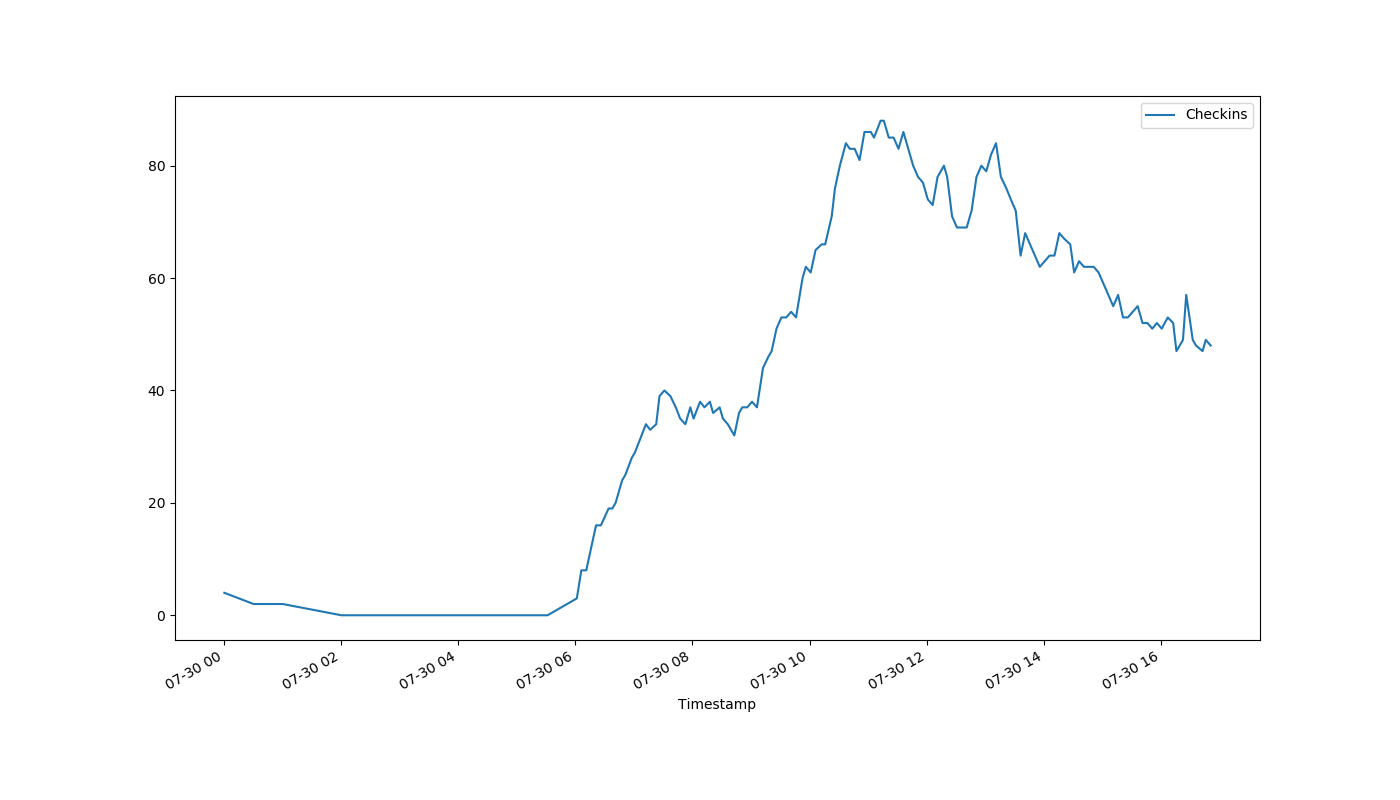
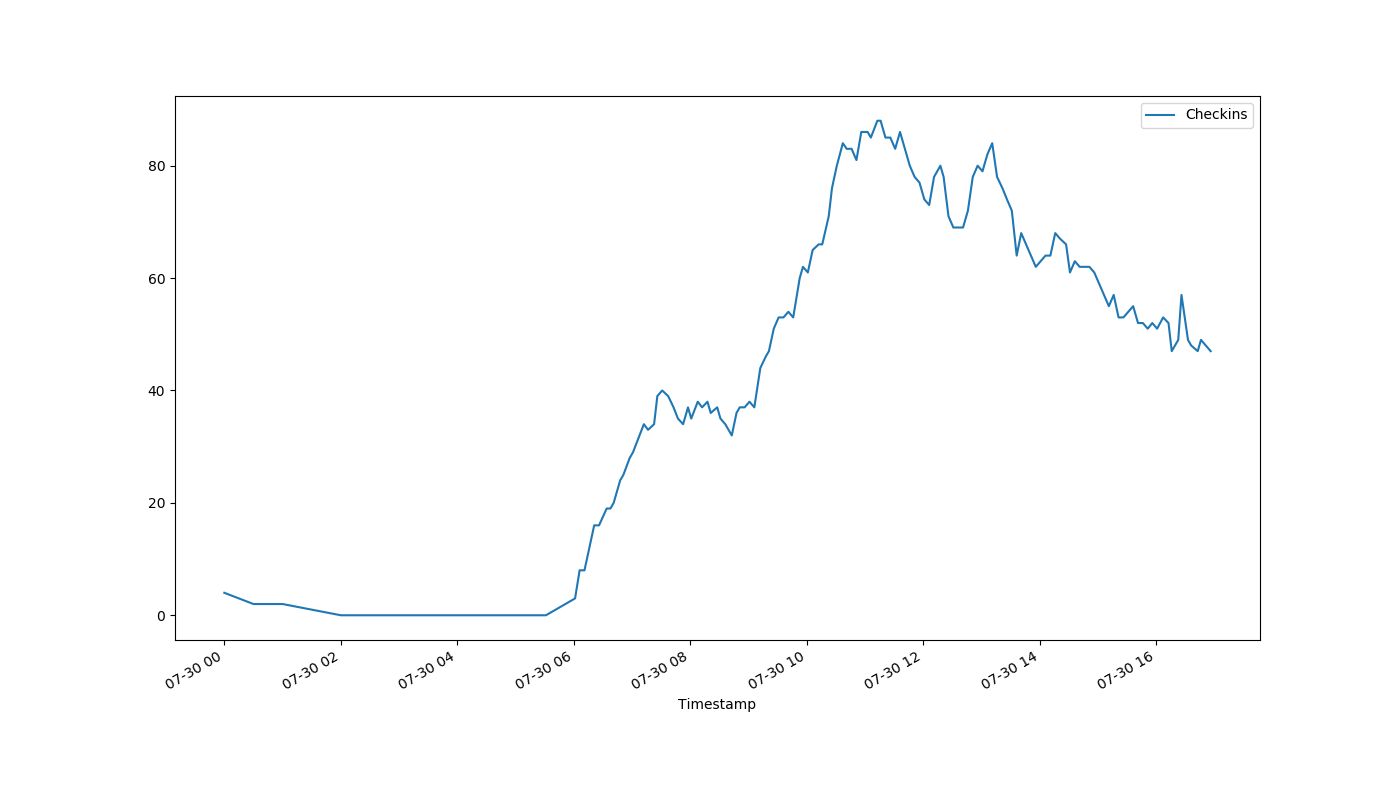
auto-Jul-30-16:58:19

diff --git a/index.html b/index.html
@@ -1,1 +1,1 @@
-<!DOCTYPE html><html><head><meta http-equiv="refresh" content="30"><link rel='stylesheet' href='holmcurrent.css'></head><body><p id='count'>48</p><div id='graph-wrap'><img id='graph' src='holmgraph-Jul-30.png'></div><p id='updated'>Last updated 16:52:02 / 16:51:10</p></body></html>
+<!DOCTYPE html><html><head><meta http-equiv="refresh" content="30"><link rel='stylesheet' href='holmcurrent.css'></head><body><p id='count'>47</p><div id='graph-wrap'><img id='graph' src='holmgraph-Jul-30.png'></div><p id='updated'>Last updated 16:57:02 / 16:56:10</p></body></html>
